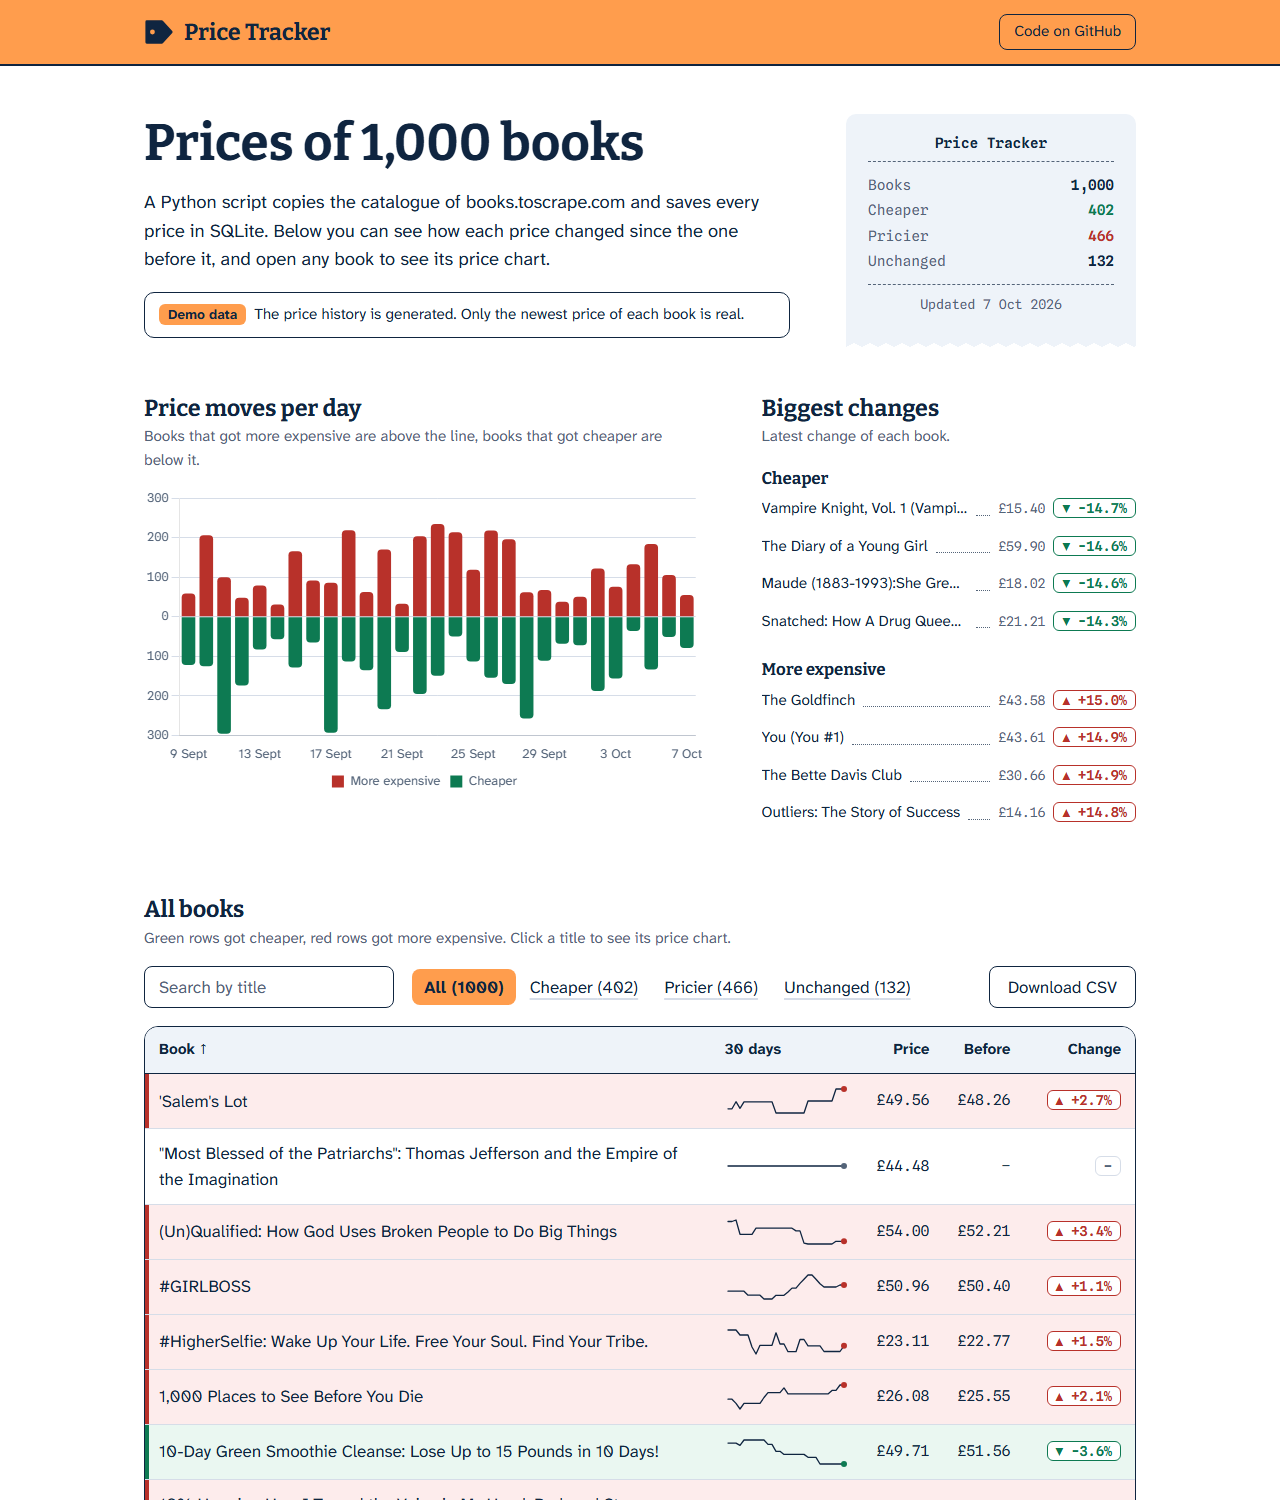
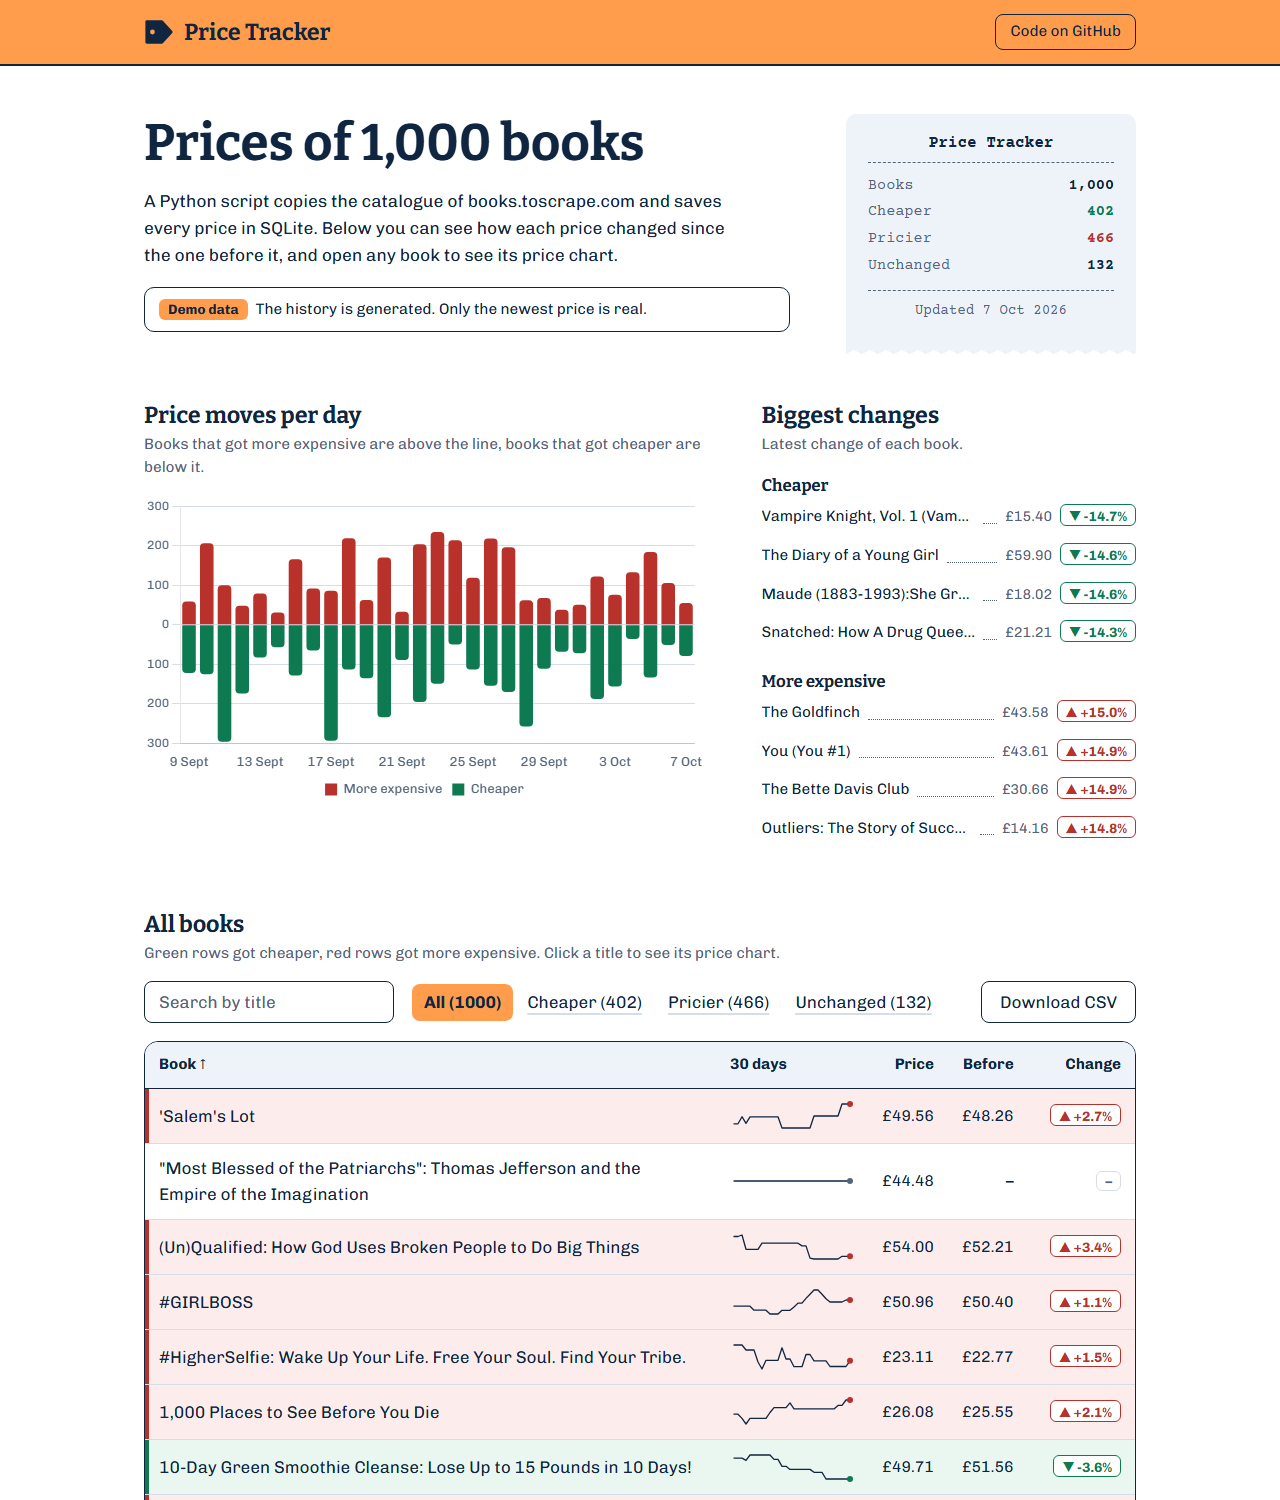
rebuild static site and screenshots

diff --git a/docs/index.html b/docs/index.html
@@ -15,11 +15,11 @@
   <link rel="preconnect" href="https://cdn.jsdelivr.net" crossorigin>
   <link rel="stylesheet" href="https://cdn.jsdelivr.net/npm/@fontsource/bitter@5.3.0/700.css" integrity="sha384-UmsHPPY2eGXaZndoxfvKd3qJrhk6GvfbBQTC5StloyklKpSZ4f7YfqDIT03EdZRt" crossorigin="anonymous">
   <link rel="stylesheet" href="https://cdn.jsdelivr.net/npm/@fontsource/bitter@5.3.0/800.css" integrity="sha384-u+Qrt5WpRyJAo4AguV4HkvAfZW3+r4YS47RLIOdlVVPGE8x/LpPNtWfiLk4YIozF" crossorigin="anonymous">
-  <link rel="stylesheet" href="https://cdn.jsdelivr.net/npm/@fontsource/atkinson-hyperlegible-next@5.3.0/400.css" integrity="sha384-4OBb7U3mVhzikR27aM/QG22Yq6XmOpS+8mXqer6qFl9hcprpGZcFXE42jlNza6bm" crossorigin="anonymous">
-  <link rel="stylesheet" href="https://cdn.jsdelivr.net/npm/@fontsource/atkinson-hyperlegible-next@5.3.0/700.css" integrity="sha384-q1FSVZbRHD6coqQdORqXeVbTEuV7tS8+BMg+kK245q9+0jVI4XNCvOtgG5vEFNb+" crossorigin="anonymous">
-  <link rel="stylesheet" href="https://cdn.jsdelivr.net/npm/@fontsource/spline-sans-mono@5.3.0/400.css" integrity="sha384-oynOfsbIUFVoom1gTOcNsc4yjc26irw3Wd+LBapTY+xJQYJEXOXdPgbiFvaSKAWp" crossorigin="anonymous">
-  <link rel="stylesheet" href="https://cdn.jsdelivr.net/npm/@fontsource/spline-sans-mono@5.3.0/600.css" integrity="sha384-VunB6oxth1PgbQwNSBiCQUOUdMSuHWkHWEPVYY+FdHESCSnCyRLljubmLr9vehHT" crossorigin="anonymous">
-  <link rel="stylesheet" href="style.css?v=11475bf9">
+  <link rel="stylesheet" href="https://cdn.jsdelivr.net/npm/@fontsource/chivo@5.3.0/400.css" integrity="sha384-6YlG2k7N6Fu8jt/nkwUU0LVpo1Vb6S75SCWuXgcGUWV1RvdoiD6PK7HRVwWZ6yOu" crossorigin="anonymous">
+  <link rel="stylesheet" href="https://cdn.jsdelivr.net/npm/@fontsource/chivo@5.3.0/700.css" integrity="sha384-YZIMaTjoUdlRiHEL2LTUh0h6bogZItp0EHhTF4jNz97641KtYsy/e7MYo5R8lheN" crossorigin="anonymous">
+  <link rel="stylesheet" href="https://cdn.jsdelivr.net/npm/@fontsource/courier-prime@5.3.0/400.css" integrity="sha384-g24tIPwvqMIz3fMezXofkpgjG/4wQL50F4EEyzmQ3h+UQT+OxlELxzR99GpVN2aV" crossorigin="anonymous">
+  <link rel="stylesheet" href="https://cdn.jsdelivr.net/npm/@fontsource/courier-prime@5.3.0/700.css" integrity="sha384-toxJGc2YDlVETPf8023qJ9k5D9FH8xy5KLVlxBYKpVMlTKrF9xQs6gfw8dqNVS7n" crossorigin="anonymous">
+  <link rel="stylesheet" href="style.css?v=5ca41377">
 </head>
 <body>
   <header class="top">
@@ -37,7 +37,7 @@
       <div>
         <h1 id="title">Prices of 1,000 books</h1>
         <p class="intro">A Python script copies the catalogue of books.toscrape.com and saves every price in SQLite. Below you can see how each price changed since the one before it, and open any book to see its price chart.</p>
-        <p class="demo" id="demo-note" hidden><span class="sticker">Demo data</span>The price history is generated. Only the newest price of each book is real.</p>
+        <p class="demo" id="demo-note" hidden><span class="sticker">Demo data</span>The history is generated. Only the newest price is real.</p>
       </div>
 
       <aside class="receipt" aria-label="Summary">
@@ -148,7 +148,7 @@
   <script src="https://cdn.jsdelivr.net/npm/chart.js@4.4.7/dist/chart.umd.min.js"
           integrity="sha384-vsrfeLOOY6KuIYKDlmVH5UiBmgIdB1oEf7p01YgWHuqmOHfZr374+odEv96n9tNC"
           crossorigin="anonymous"></script>
-  <script src="common.js?v=b013006d"></script>
-  <script src="index.js?v=8617f1ad"></script>
+  <script src="common.js?v=0e43c4e7"></script>
+  <script src="index.js?v=233e0e07"></script>
 </body>
 </html>

diff --git a/docs/product.html b/docs/product.html
@@ -9,11 +9,11 @@
   <link rel="preconnect" href="https://cdn.jsdelivr.net" crossorigin>
   <link rel="stylesheet" href="https://cdn.jsdelivr.net/npm/@fontsource/bitter@5.3.0/700.css" integrity="sha384-UmsHPPY2eGXaZndoxfvKd3qJrhk6GvfbBQTC5StloyklKpSZ4f7YfqDIT03EdZRt" crossorigin="anonymous">
   <link rel="stylesheet" href="https://cdn.jsdelivr.net/npm/@fontsource/bitter@5.3.0/800.css" integrity="sha384-u+Qrt5WpRyJAo4AguV4HkvAfZW3+r4YS47RLIOdlVVPGE8x/LpPNtWfiLk4YIozF" crossorigin="anonymous">
-  <link rel="stylesheet" href="https://cdn.jsdelivr.net/npm/@fontsource/atkinson-hyperlegible-next@5.3.0/400.css" integrity="sha384-4OBb7U3mVhzikR27aM/QG22Yq6XmOpS+8mXqer6qFl9hcprpGZcFXE42jlNza6bm" crossorigin="anonymous">
-  <link rel="stylesheet" href="https://cdn.jsdelivr.net/npm/@fontsource/atkinson-hyperlegible-next@5.3.0/700.css" integrity="sha384-q1FSVZbRHD6coqQdORqXeVbTEuV7tS8+BMg+kK245q9+0jVI4XNCvOtgG5vEFNb+" crossorigin="anonymous">
-  <link rel="stylesheet" href="https://cdn.jsdelivr.net/npm/@fontsource/spline-sans-mono@5.3.0/400.css" integrity="sha384-oynOfsbIUFVoom1gTOcNsc4yjc26irw3Wd+LBapTY+xJQYJEXOXdPgbiFvaSKAWp" crossorigin="anonymous">
-  <link rel="stylesheet" href="https://cdn.jsdelivr.net/npm/@fontsource/spline-sans-mono@5.3.0/600.css" integrity="sha384-VunB6oxth1PgbQwNSBiCQUOUdMSuHWkHWEPVYY+FdHESCSnCyRLljubmLr9vehHT" crossorigin="anonymous">
-  <link rel="stylesheet" href="style.css?v=11475bf9">
+  <link rel="stylesheet" href="https://cdn.jsdelivr.net/npm/@fontsource/chivo@5.3.0/400.css" integrity="sha384-6YlG2k7N6Fu8jt/nkwUU0LVpo1Vb6S75SCWuXgcGUWV1RvdoiD6PK7HRVwWZ6yOu" crossorigin="anonymous">
+  <link rel="stylesheet" href="https://cdn.jsdelivr.net/npm/@fontsource/chivo@5.3.0/700.css" integrity="sha384-YZIMaTjoUdlRiHEL2LTUh0h6bogZItp0EHhTF4jNz97641KtYsy/e7MYo5R8lheN" crossorigin="anonymous">
+  <link rel="stylesheet" href="https://cdn.jsdelivr.net/npm/@fontsource/courier-prime@5.3.0/400.css" integrity="sha384-g24tIPwvqMIz3fMezXofkpgjG/4wQL50F4EEyzmQ3h+UQT+OxlELxzR99GpVN2aV" crossorigin="anonymous">
+  <link rel="stylesheet" href="https://cdn.jsdelivr.net/npm/@fontsource/courier-prime@5.3.0/700.css" integrity="sha384-toxJGc2YDlVETPf8023qJ9k5D9FH8xy5KLVlxBYKpVMlTKrF9xQs6gfw8dqNVS7n" crossorigin="anonymous">
+  <link rel="stylesheet" href="style.css?v=5ca41377">
 </head>
 <body>
   <header class="top">
@@ -64,7 +64,7 @@
   <script src="https://cdn.jsdelivr.net/npm/chart.js@4.4.7/dist/chart.umd.min.js"
           integrity="sha384-vsrfeLOOY6KuIYKDlmVH5UiBmgIdB1oEf7p01YgWHuqmOHfZr374+odEv96n9tNC"
           crossorigin="anonymous"></script>
-  <script src="common.js?v=b013006d"></script>
-  <script src="product.js?v=5dd4defa"></script>
+  <script src="common.js?v=0e43c4e7"></script>
+  <script src="product.js?v=c9d95115"></script>
 </body>
 </html>

diff --git a/docs/style.css b/docs/style.css
@@ -15,8 +15,8 @@
   --r-md: 10px;
   --r-lg: 14px;
   --head: "Bitter", Georgia, "Times New Roman", serif;
-  --body: "Atkinson Hyperlegible Next", "Segoe UI", system-ui, sans-serif;
-  --mono: "Spline Sans Mono", Consolas, "Courier New", monospace;
+  --body: "Chivo", "Segoe UI", system-ui, sans-serif;
+  --receipt: "Courier Prime", "Courier New", monospace;
 }
 
 * {
@@ -131,9 +131,9 @@ h2 {
 }
 
 .intro {
-  max-width: 54ch;
+  max-width: 56ch;
   margin: 0 0 18px;
-  font-size: 1.15rem;
+  font-size: 1.08rem;
 }
 
 .demo {
@@ -157,7 +157,7 @@ h2 {
 .receipt {
   position: relative;
   padding: 20px 22px 24px;
-  font: 0.9rem/1.5 var(--mono);
+  font: 0.95rem/1.5 var(--receipt);
   background: var(--soft);
   border-radius: var(--r-md) var(--r-md) 0 0;
 }
@@ -177,7 +177,7 @@ h2 {
 
 .receipt h2 {
   margin: 0 0 10px;
-  font: 600 0.9rem var(--mono);
+  font: 700 1rem var(--receipt);
   text-align: center;
 }
 
@@ -201,7 +201,7 @@ h2 {
 
 .receipt dd {
   margin: 0;
-  font-weight: 600;
+  font-weight: 700;
 }
 
 .receipt .down dd {
@@ -214,7 +214,7 @@ h2 {
 
 .receipt p {
   margin: 10px 0 0;
-  font-size: 0.82rem;
+  font-size: 0.88rem;
   text-align: center;
   color: var(--muted);
 }
@@ -294,7 +294,8 @@ h3.mini {
 }
 
 .m-price {
-  font: 0.82rem var(--mono);
+  font: 0.88rem var(--body);
+  font-variant-numeric: tabular-nums;
   color: var(--muted);
 }
 
@@ -303,7 +304,8 @@ h3.mini {
 .chip {
   display: inline-block;
   padding: 1px 8px;
-  font: 600 0.85rem var(--mono);
+  font: 700 0.85rem var(--body);
+  font-variant-numeric: tabular-nums;
   white-space: nowrap;
   border: 1.5px solid currentColor;
   border-radius: var(--r-sm);
@@ -398,6 +400,10 @@ h3.mini {
   text-decoration: none;
 }
 
+.tabs .count {
+  font-variant-numeric: tabular-nums;
+}
+
 .tabs .count::before {
   content: "(";
 }
@@ -479,8 +485,8 @@ h3.mini {
 }
 
 .books .num {
-  font-family: var(--mono);
-  font-size: 0.92rem;
+  font-variant-numeric: tabular-nums;
+  font-size: 0.97rem;
   text-align: right;
   white-space: nowrap;
 }
@@ -638,7 +644,7 @@ h3.mini {
 }
 
 .facts td {
-  font-family: var(--mono);
+  font-variant-numeric: tabular-nums;
   text-align: right;
   white-space: nowrap;
 }

diff --git a/docs/404.html b/docs/404.html
@@ -6,7 +6,7 @@
   <title>Page not found - Price Tracker</title>
   <meta name="theme-color" content="#ff9d4d">
   <link rel="stylesheet" href="https://cdn.jsdelivr.net/npm/@fontsource/bitter@5.3.0/700.css" integrity="sha384-UmsHPPY2eGXaZndoxfvKd3qJrhk6GvfbBQTC5StloyklKpSZ4f7YfqDIT03EdZRt" crossorigin="anonymous">
-  <link rel="stylesheet" href="https://cdn.jsdelivr.net/npm/@fontsource/atkinson-hyperlegible-next@5.3.0/400.css" integrity="sha384-4OBb7U3mVhzikR27aM/QG22Yq6XmOpS+8mXqer6qFl9hcprpGZcFXE42jlNza6bm" crossorigin="anonymous">
+  <link rel="stylesheet" href="https://cdn.jsdelivr.net/npm/@fontsource/chivo@5.3.0/400.css" integrity="sha384-6YlG2k7N6Fu8jt/nkwUU0LVpo1Vb6S75SCWuXgcGUWV1RvdoiD6PK7HRVwWZ6yOu" crossorigin="anonymous">
   <!-- GitHub Pages shows this file for every missing address, so the paths start from the project folder -->
   <link rel="stylesheet" href="/price-tracker/style.css">
 </head>

diff --git a/docs/product.js b/docs/product.js
@@ -108,7 +108,7 @@
       const points = chart.getDatasetMeta(0).data;
 
       ctx.save();
-      ctx.font = "600 12px " + PT.cssVar("--mono");
+      ctx.font = "700 12px " + PT.cssVar("--body");
       const put = (text, x, y, color, align) => {
         const width = ctx.measureText(text).width;
         const left = align === "center" ? x - width / 2 : x;
@@ -173,7 +173,7 @@
         y: {
           grace: "10%",
           grid: { color: PT.cssVar("--line") },
-          ticks: { callback: (value) => "£" + value.toFixed(2), font: { family: PT.cssVar("--mono"), size: 12 } },
+          ticks: { callback: (value) => "£" + value.toFixed(2), font: { family: PT.cssVar("--body"), size: 12 } },
         },
       },
       plugins: {

diff --git a/docs/common.js b/docs/common.js
@@ -72,7 +72,7 @@ const PT = (function () {
   async function setupChartDefaults() {
     // wait for the web fonts, otherwise the chart text is measured with the fallback font
     try {
-      await document.fonts.load('15px "Atkinson Hyperlegible Next"');
+      await document.fonts.load('15px "Chivo"');
       await document.fonts.ready;
     } catch (err) {
       // the fallback font is fine

diff --git a/docs/index.js b/docs/index.js
@@ -184,7 +184,7 @@
           y: {
             stacked: true,
             grid: { color: PT.cssVar("--line") },
-            ticks: { callback: (value) => Math.abs(value), font: { family: PT.cssVar("--mono"), size: 12 } },
+            ticks: { callback: (value) => Math.abs(value), font: { family: PT.cssVar("--body"), size: 12 } },
           },
         },
         plugins: {
